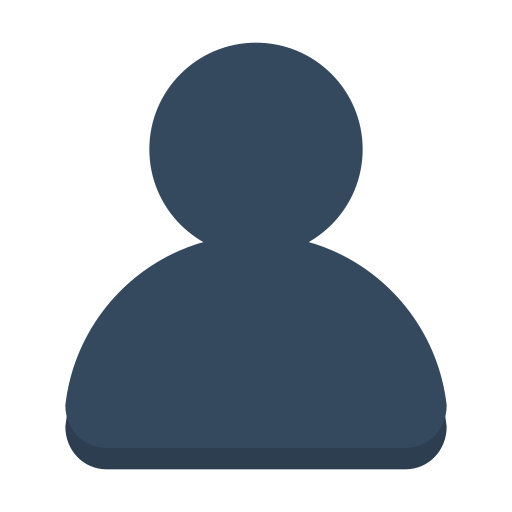
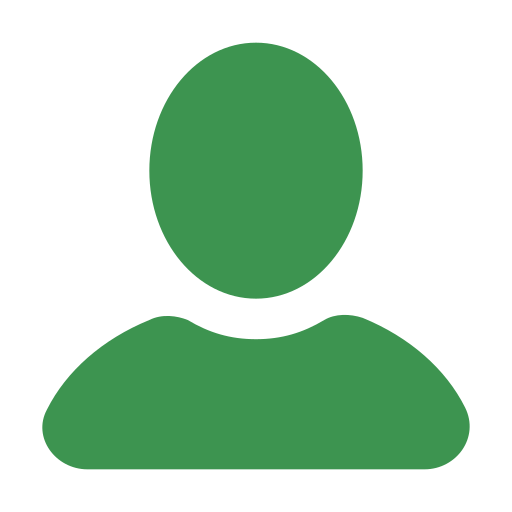
Al parecer si carga aqui el UI de login

diff --git a/Views/LoginViews/IniciarSesionPage.xaml b/Views/LoginViews/IniciarSesionPage.xaml
@@ -6,42 +6,31 @@
     Title="IniciarSesionPage"
     NavigationPage.HasNavigationBar="False">
     <VerticalStackLayout VerticalOptions="Center">
-        <Frame
-            Margin="0,-70"
-            Padding="0"
-            BackgroundColor="White"
-            CornerRadius="70"
-            HasShadow="True"
-            WidthRequest="120"
-            ZIndex="1">
-            <Image Source="profile_icon.png" ZIndex="1" />
-            <Frame.Shadow>
-                <Shadow
-                    Brush="Black"
-                    Opacity="0.5"
-                    Radius="50"
-                    Offset="0,0" />
-            </Frame.Shadow>
-        </Frame>
+
+
         <Frame
             Margin="40,0"
-            Padding="15,90,15,15"
-            BackgroundColor="#c7d7f0"
-            BorderColor="Transparent"
-            CornerRadius="20"
-            HasShadow="True"
-            ZIndex="0">
-            <Frame.Shadow>
-                <Shadow
-                    Brush="Black"
-                    Opacity="0.9"
-                    Radius="90"
-                    Offset="-20,10" />
-            </Frame.Shadow>
-            <Grid RowDefinitions="Auto,Auto,Auto,Auto,Auto,Auto,Auto" RowSpacing="5">
-                <Frame Padding="0" CornerRadius="5">
-                    <Grid ColumnDefinitions="Auto,*" ColumnSpacing="2">
-                        <Image Source="locked_padlock_icon.png" WidthRequest="50" />
+            Padding="15,25,15,15"
+            BackgroundColor="#8dd6ab"
+            BorderColor="#558067"
+            CornerRadius="20">
+
+            <Grid RowDefinitions="Auto,Auto,Auto,Auto,Auto,Auto,Auto" RowSpacing="7">
+                <Label
+                    Margin="0,0,0,17"
+                    FontAttributes="Bold"
+                    FontSize="20"
+                    HorizontalOptions="Center"
+                    Text="INICIAR SESIÓN" />
+                <Frame
+                    Grid.Row="1"
+                    Padding="14,0"
+                    CornerRadius="5">
+                    <Grid ColumnDefinitions="Auto,*" ColumnSpacing="5">
+                        <Image
+                            Margin="5,0,5,0"
+                            MaximumHeightRequest="35"
+                            Source="user_icon.png" />
                         <Entry
                             x:Name="Entry_Usuario"
                             Grid.Column="1"
@@ -62,13 +51,13 @@
                     TextColor="#030524" />
                 <Frame
                     Grid.Row="2"
-                    Padding="0"
+                    Padding="14,0"
                     CornerRadius="5">
-                    <Grid ColumnDefinitions="Auto,*" ColumnSpacing="2">
+                    <Grid ColumnDefinitions="Auto,*" ColumnSpacing="5">
                         <Image
                             Margin="5,0,5,0"
-                            Source="key_icon.png"
-                            WidthRequest="40" />
+                            Source="password_icon.png"
+                            WidthRequest="35" />
                         <Entry
                             x:Name="Entry_Contrasena"
                             Grid.Column="1"
@@ -77,6 +66,7 @@
                             VerticalTextAlignment="End" />
                     </Grid>
                 </Frame>
+
                 <Label
                     x:Name="Label_ContrasenaIncorrecta"
                     Grid.Row="3"
@@ -86,14 +76,17 @@
                     IsVisible="False"
                     Text="* Contraseña incorrecta"
                     TextColor="#030524" />
+
                 <Button
                     x:Name="Button_Ingresar"
                     Grid.Row="4"
+                    Margin="40,5,40,0"
                     Clicked="Button_Ingresar_Clicked"
+                    FontSize="16"
                     Text="Ingresar" />
                 <Grid
                     Grid.Row="5"
-                    Margin="0,15"
+                    Margin="0,5"
                     ColumnDefinitions="*,Auto,*">
                     <Line
                         HorizontalOptions="CenterAndExpand"
@@ -112,20 +105,21 @@
                     x:Name="Button_CrearNuevaCuenta"
                     Grid.Row="6"
                     Padding="15,0"
-                    BackgroundColor="#5d92e8"
+                    BackgroundColor="#4da36d"
                     Clicked="Button_CrearNuevaCuenta_Clicked"
-                    FontSize="10"
+                    FontSize="13"
                     HeightRequest="30"
                     HorizontalOptions="Center"
                     Text="Crear nueva cuenta" />
             </Grid>
         </Frame>
     </VerticalStackLayout>
-    <!--  Da el color al fondo de la vista  -->
+
     <ContentPage.Background>
-        <LinearGradientBrush EndPoint="1,0">
-            <GradientStop Offset="0.1" Color="#5d92e8" />
-            <GradientStop Offset="1.0" Color="#044fc7" />
-        </LinearGradientBrush>
+
+        <Color>
+            #d5eddd
+        </Color>
+
     </ContentPage.Background>
 </ContentPage>
